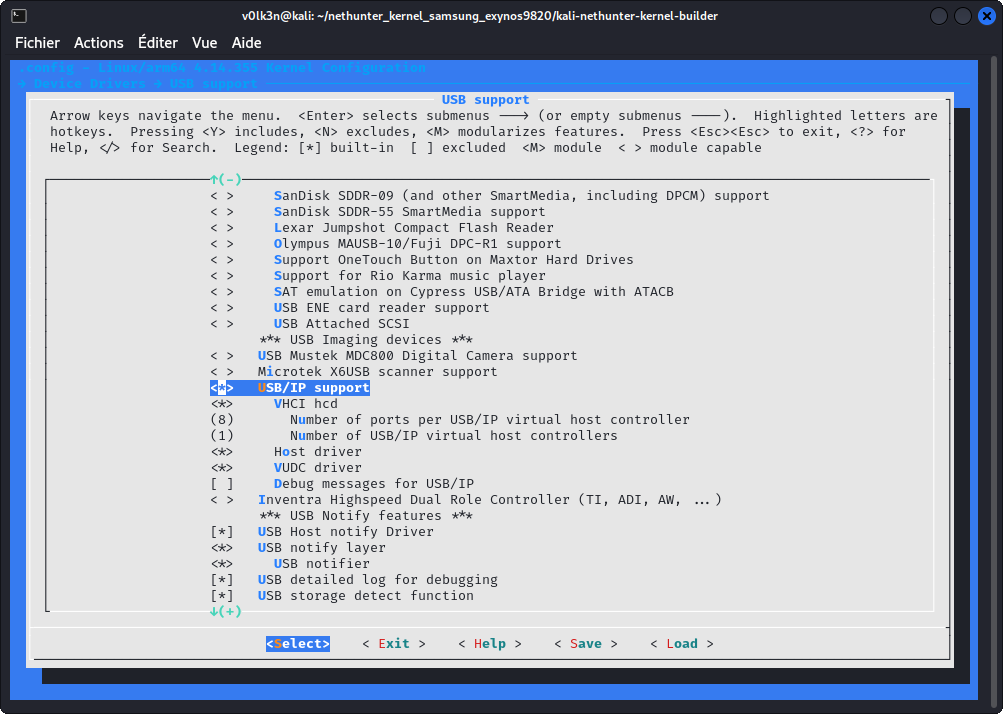
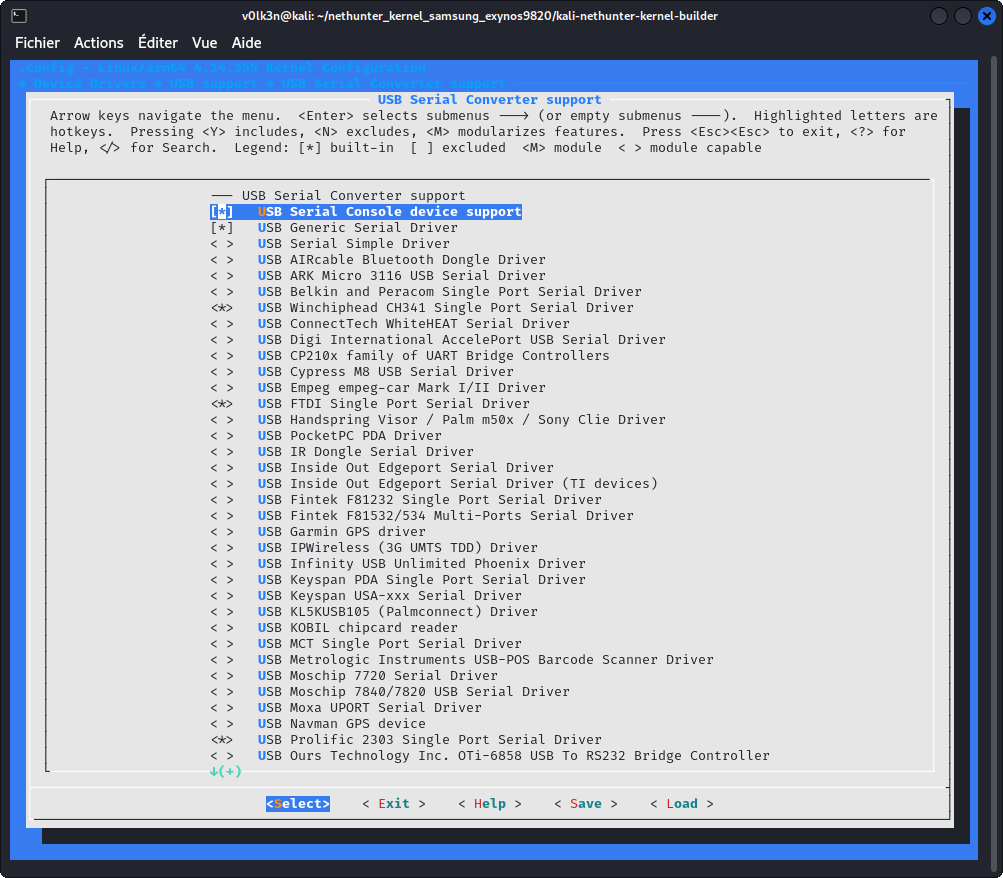
Remove USB/IP step

diff --git a/nethunter/nethunter-kernel-9-config-8/index.md b/nethunter/nethunter-kernel-9-config-8/index.md
@@ -82,15 +82,6 @@ Under ***"QoS and/or fair queueing"***
 ![](7-kernel_can.png)
 
 
-In Section ***"Device Drivers ---> USB support"***
-
-- Select ***"USB/IP Support"***
-- Select ***"VHCI hcd"***
-- Select ***"Host driver"***
-- Select ***"VUDC driver"***
-
-![](8-kernel_can.png)
-
 In section ***"Device Drivers ---> USB support ---> USB Serial Converter support --->"*** :
 
 - Select ***"USB Serial Console device support"***
@@ -99,7 +90,7 @@ In section ***"Device Drivers ---> USB support ---> USB Serial Converter support
 - Select ***"USB FTDI Single Port Serial Driver"***
 - Select ***"USB Prolific 2303 Single Port Serial Driver"***
 
-![](9-kernel_can.png)
+![](8-kernel_can.png)
 
 ### ELM327 
 
